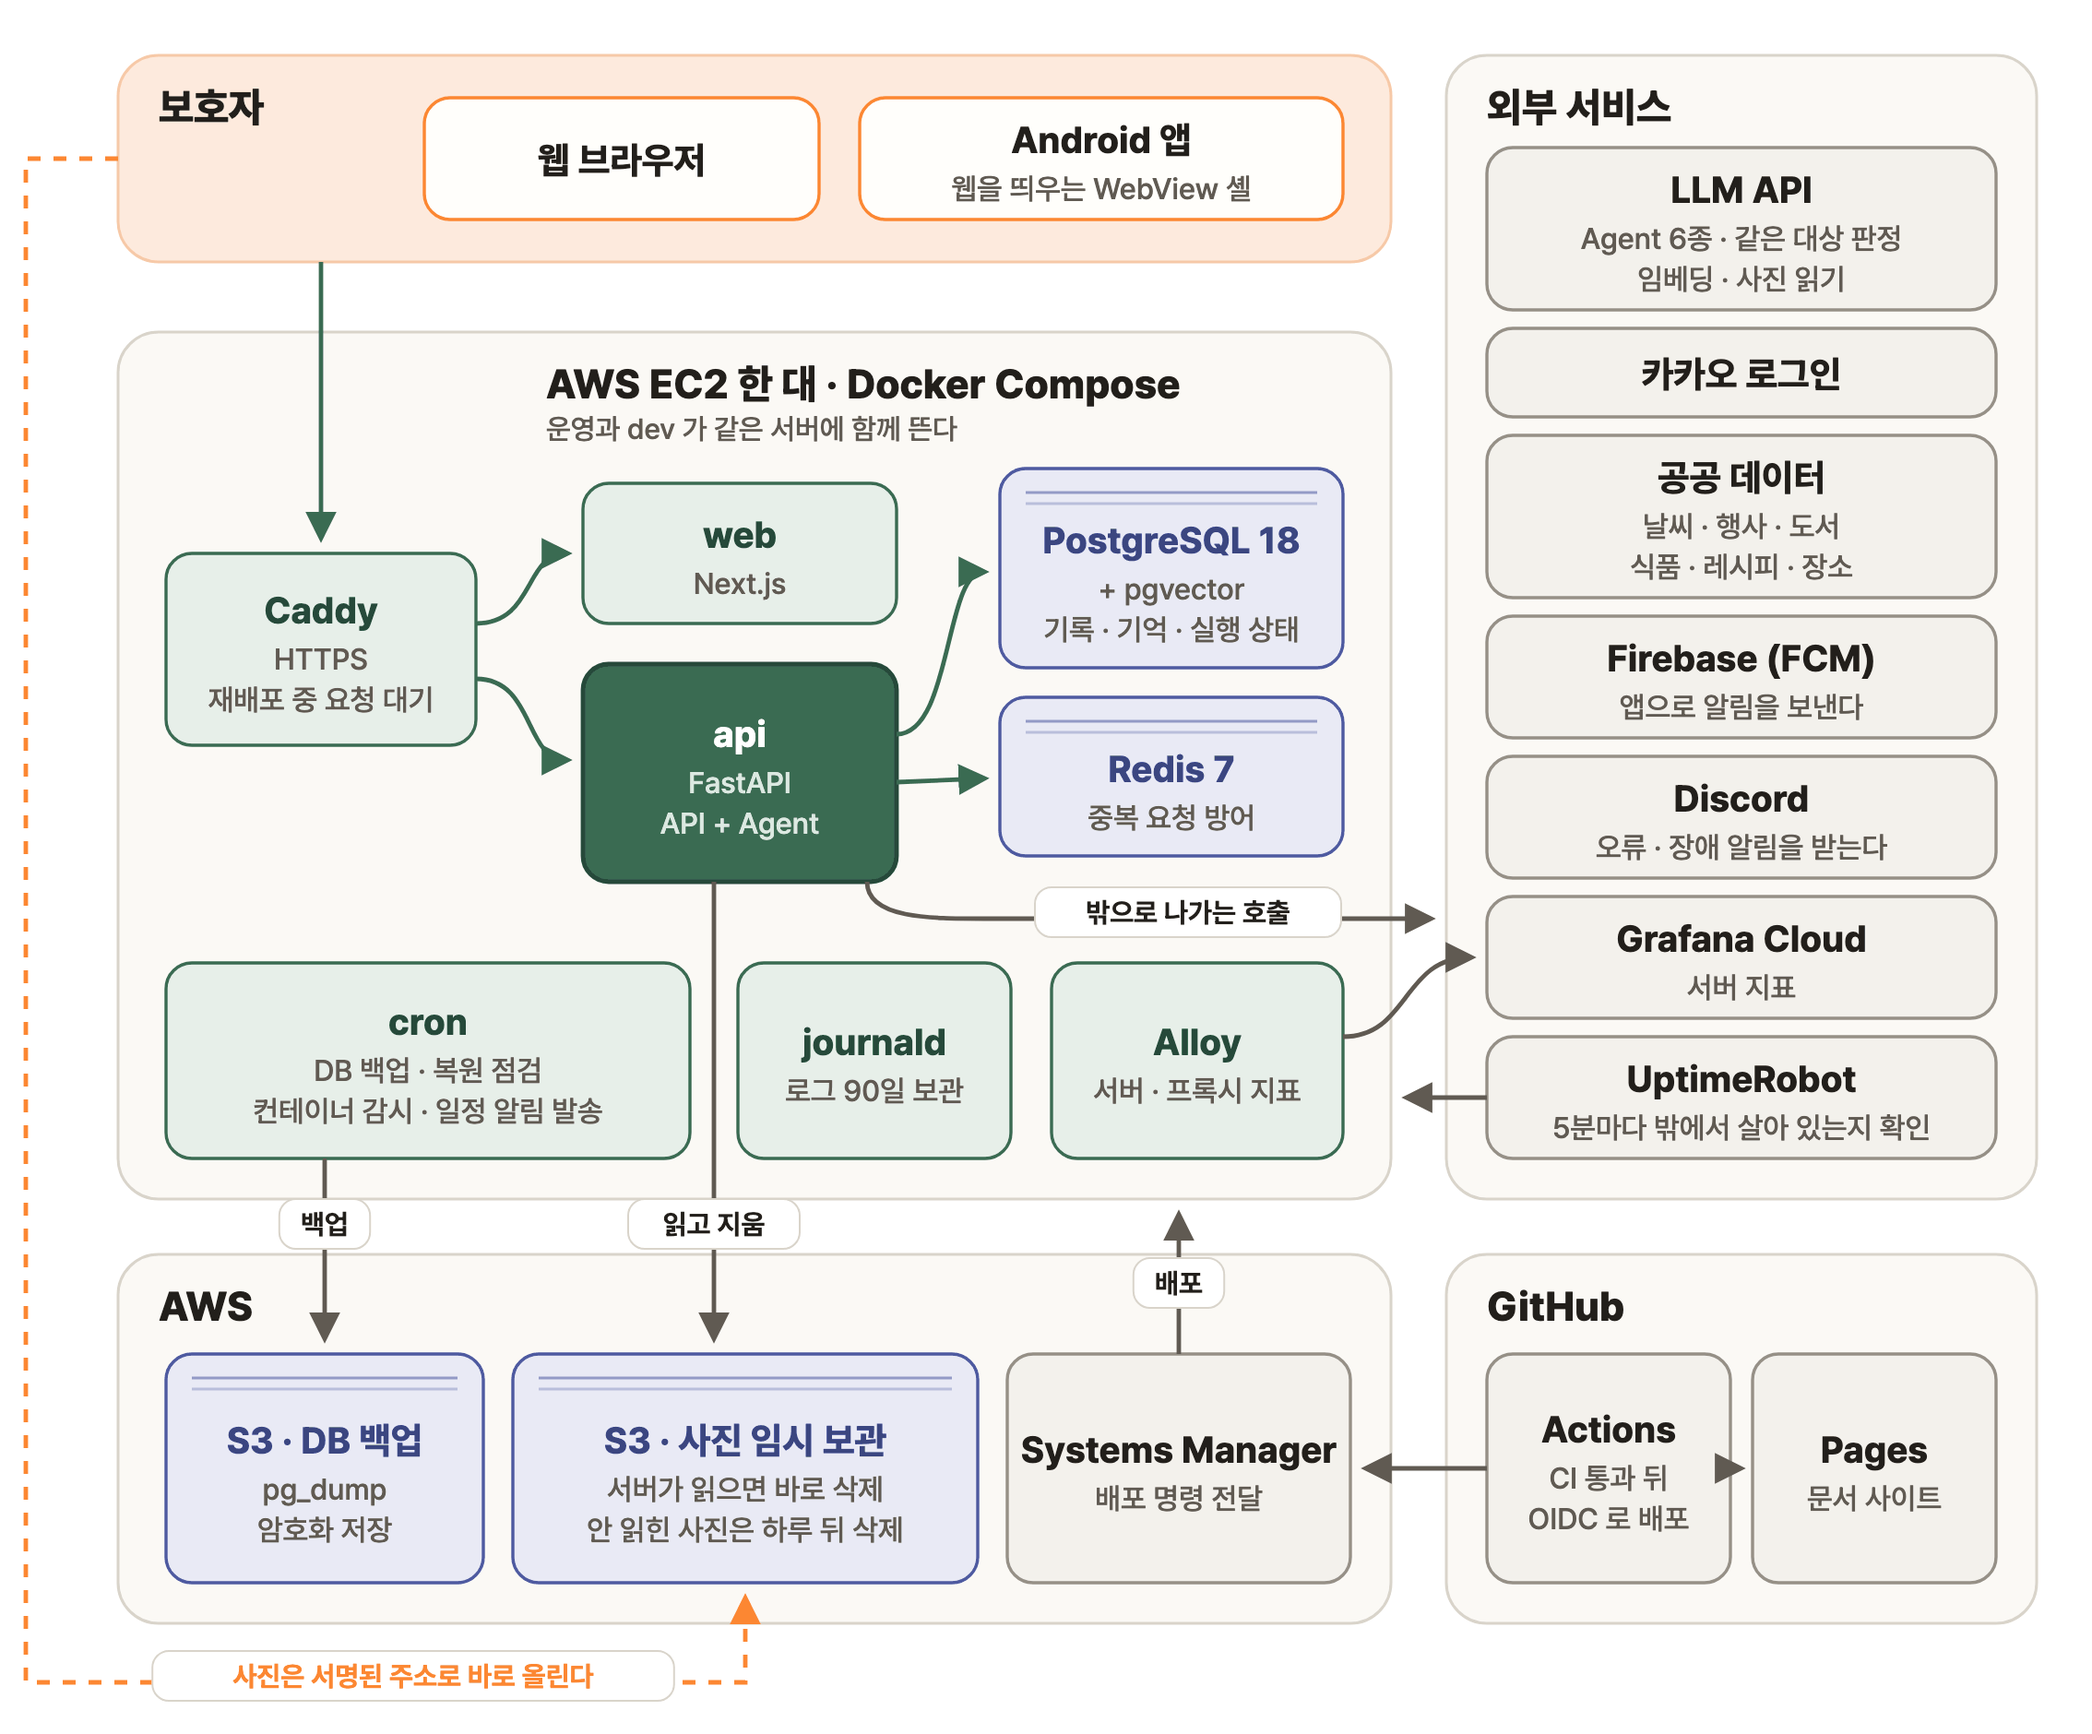
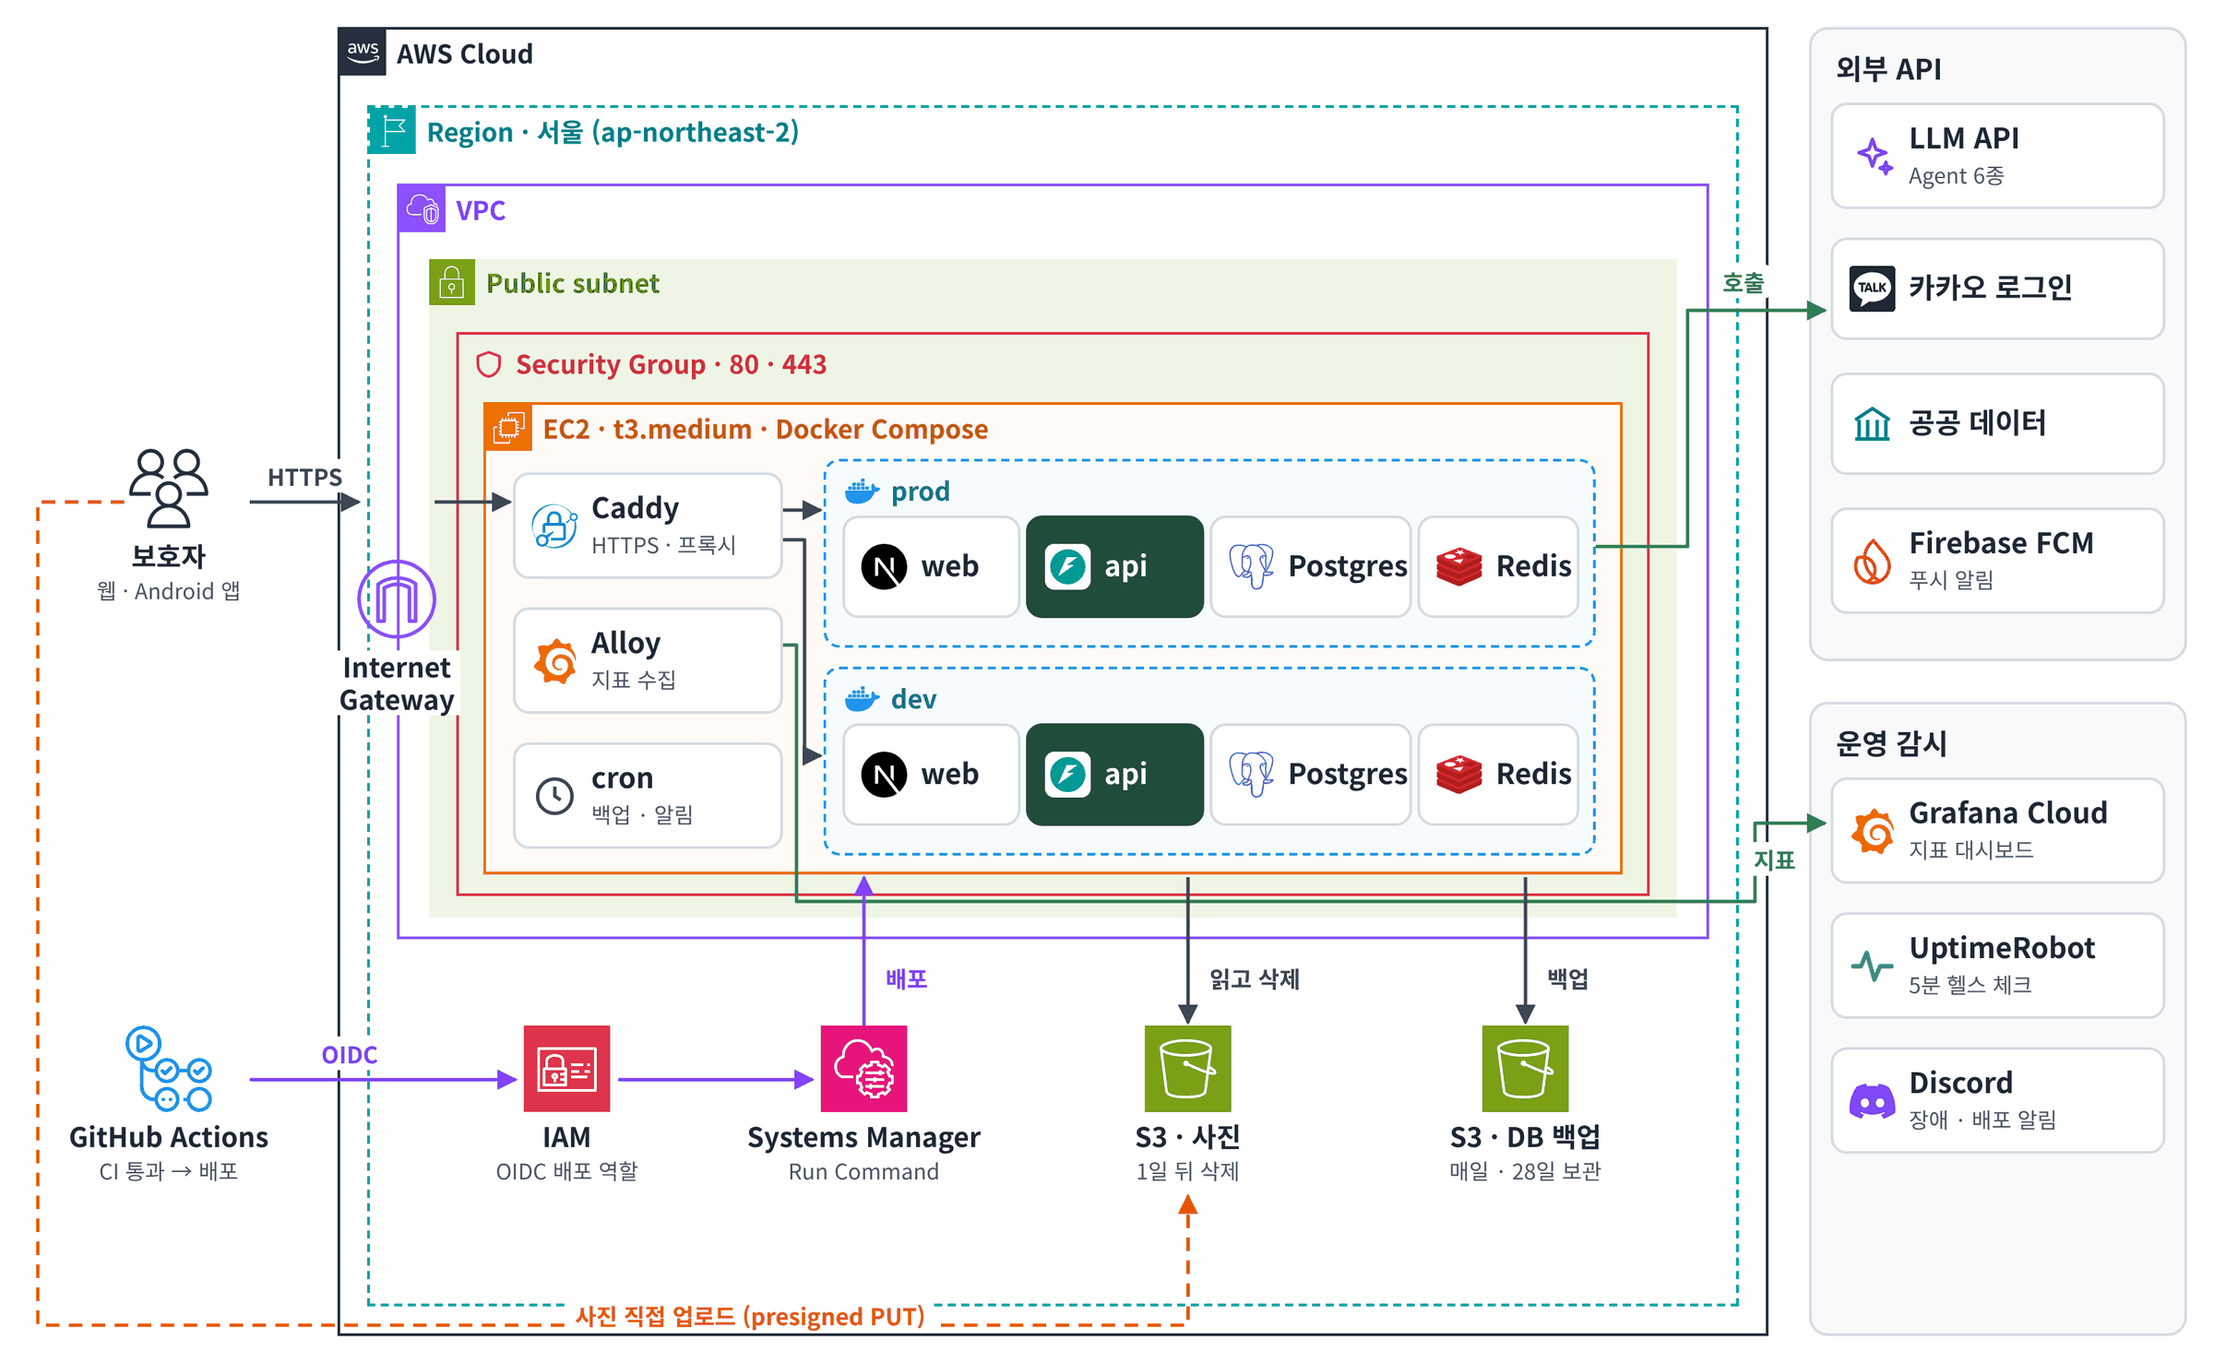
docs(readme): 구성도를 AWS 표기(리전 · VPC · 서브넷 · 보안 그룹)와 공식 아이콘으로 바꾼다

Changed region(s): [[0.0309, 0.0, 0.9877, 0.9959]]

diff --git a/README.md b/README.md
@@ -206,7 +206,7 @@ Agent 별 설계는 [Supervisor](https://kakaotechcampus-4.github.io/ktc4-pusan-
 
 </div>
 
-<img src="docs/assets/readme/architecture.png" alt="아이캐치 구성도 — 보호자의 웹과 앱이 Caddy 를 거쳐 web 과 api 로 들어가고, api 는 PostgreSQL · Redis · S3 · LLM API · 카카오 로그인 · 공공 데이터 · Firebase(FCM) 을 쓴다. UptimeRobot 이 밖에서 가동을 확인한다. 배포는 GitHub Actions 가 Systems Manager 로 명령을 보낸다.">
+<img src="docs/assets/readme/architecture.png" width="100%" alt="아이캐치 구성도. 보호자의 웹과 Android 앱이 HTTPS 로 AWS 서울 리전의 EC2 한 대에 들어온다. EC2 안에서 Caddy 가 요청을 받아 prod 와 dev 두 벌의 web · api · PostgreSQL · Redis 로 나눠 보내고, Alloy 가 지표를 모으고 cron 이 백업과 알림을 돌린다. api 는 LLM API · 카카오 로그인 · 공공 데이터 · Firebase FCM 을 부른다. 사진은 화면이 S3 에 바로 올리고 서버가 읽은 뒤 지운다. DB 백업은 매일 S3 에 쌓여 28일 보관된다. 배포는 GitHub Actions 가 OIDC 로 IAM 역할을 받아 Systems Manager 로 명령을 보낸다. Grafana Cloud · UptimeRobot · Discord 가 서버 밖에서 지켜본다.">
 
 | 고른 것 | 왜 |
 | --- | --- |
